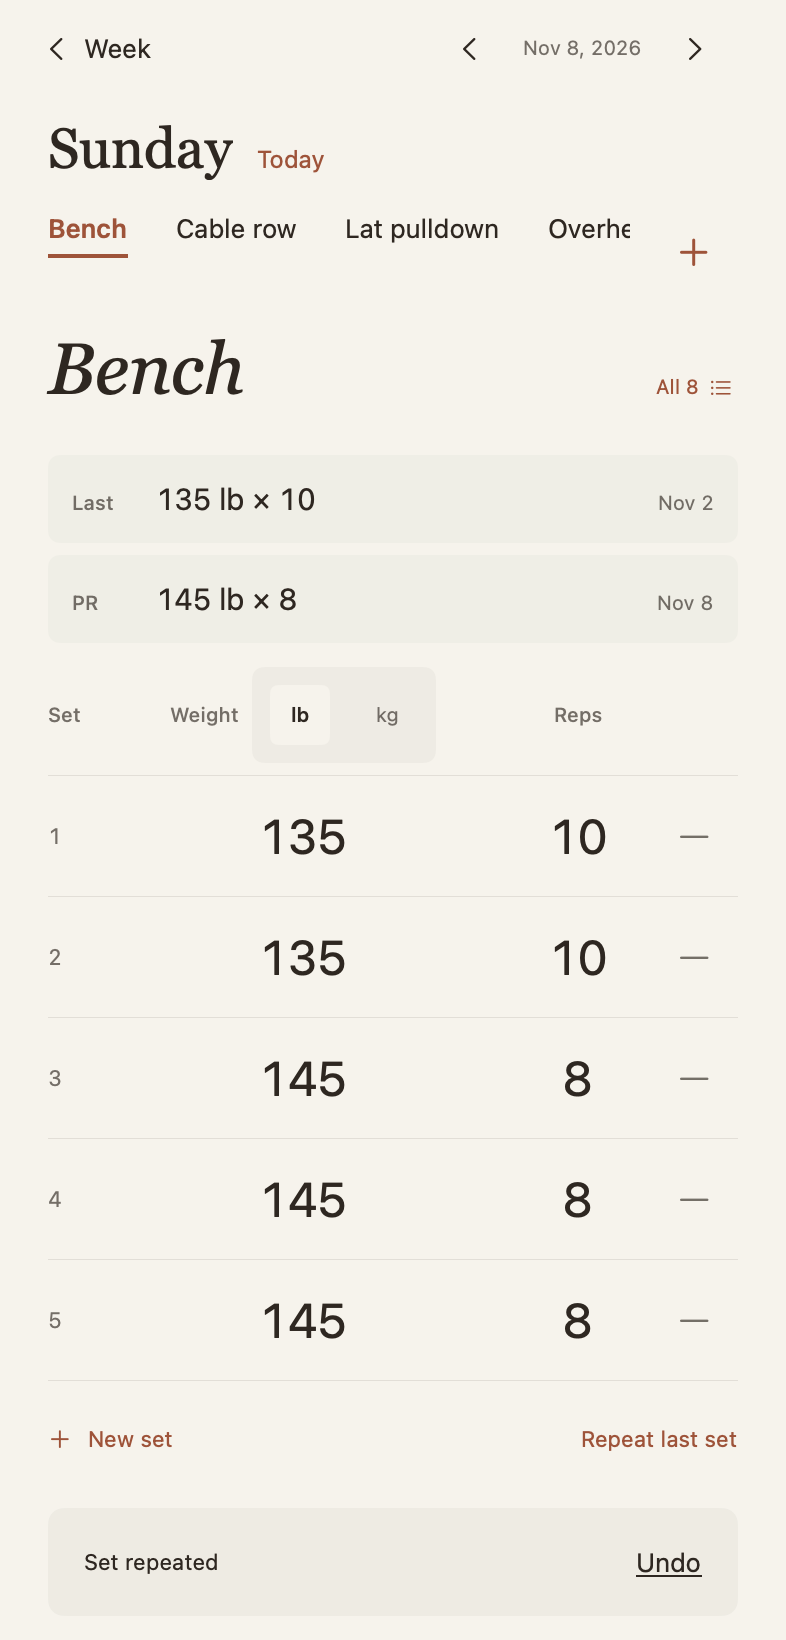
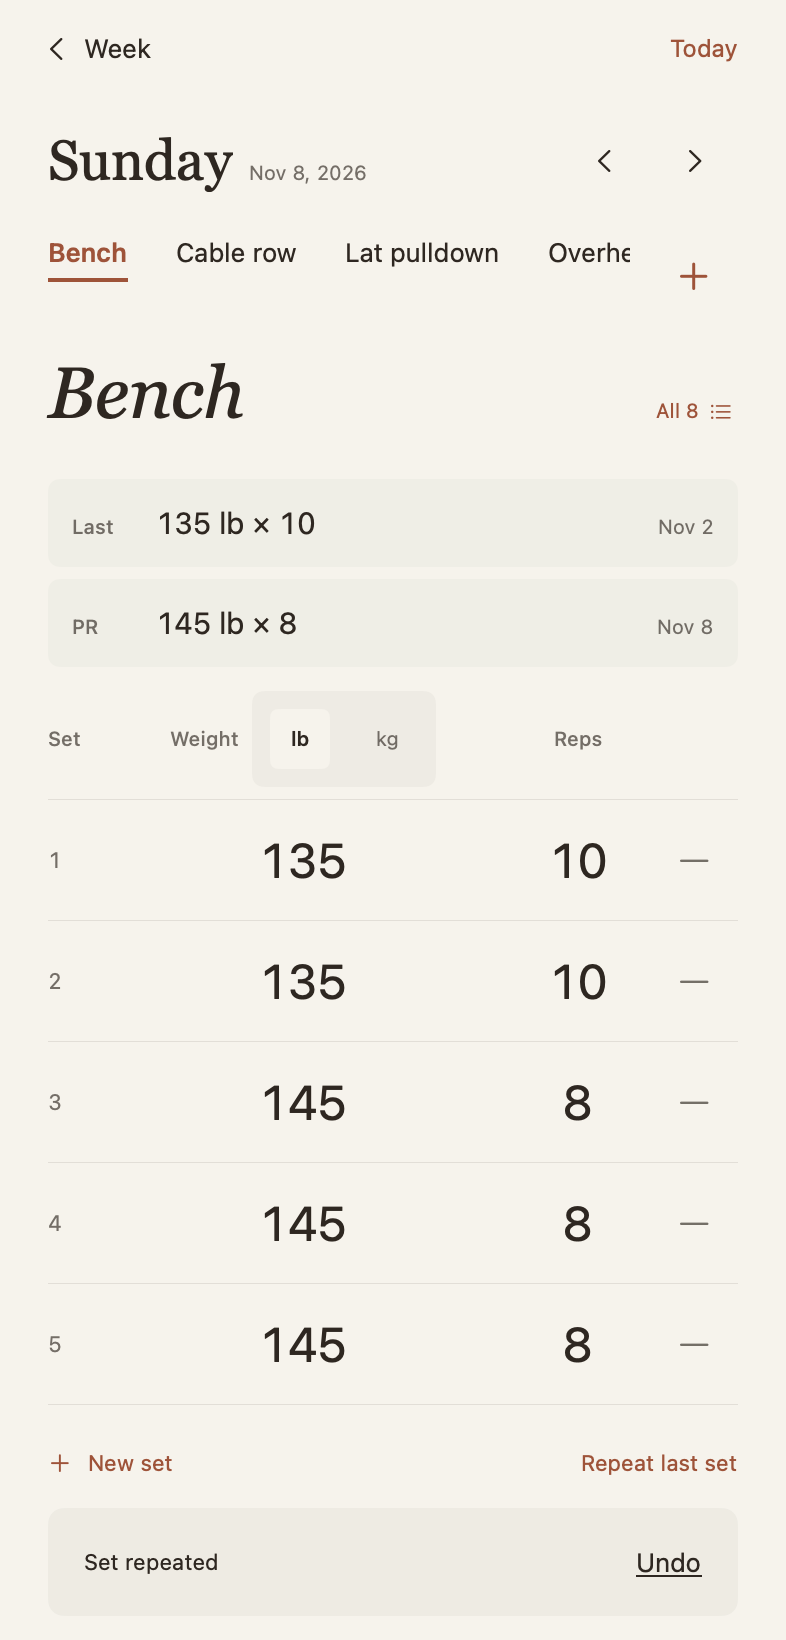
Group weekday and date beside day navigation arrows

diff --git a/Sources/SendaNotebook/TrainingDayView.swift b/Sources/SendaNotebook/TrainingDayView.swift
@@ -21,26 +21,12 @@ struct TrainingDayView: View {
         ScrollViewReader { scroll in
             ScrollView {
                 VStack(alignment: .leading, spacing: 12) {
-                    ViewThatFits(in: .horizontal) {
-                        HStack(spacing: 8) {
-                            weekButton.fixedSize()
-                            Spacer(minLength: 4)
-                            dateNavigation.fixedSize()
-                        }
-                        VStack(alignment: .leading, spacing: 0) {
-                            weekButton
-                            dateNavigation
-                        }
-                    }.id("day-header")
-                    HStack(alignment: .firstTextBaseline, spacing: 12) {
-                        Text(TrainingText.date(day, format: "EEEE"))
-                            .font(NotebookTypography.heading(28, relativeTo: .title2))
-                            .fixedSize(horizontal: false, vertical: true)
-                            .accessibilityLabel(TrainingText.date(day, format: "EEEE, MMM d"))
-                            .accessibilityIdentifier("day-title")
+                    HStack {
+                        weekButton
+                        Spacer(minLength: 12)
                         if day == model.today { Text("Today").font(.callout).foregroundStyle(NotebookStyle.clay).fixedSize() }
-                        Spacer(minLength: 0)
-                    }.padding(.bottom, 2)
+                    }
+                    dateNavigation.padding(.bottom, 2).id("day-header")
                     HStack(spacing: 10) {
                         ScrollView(.horizontal) {
                             LazyHStack(spacing: 24) {
@@ -139,22 +125,49 @@ struct TrainingDayView: View {
     }
 
     private var dateNavigation: some View {
-        HStack(spacing: 4) {
-            Button { model.changeDay(-1) } label: {
-                Image(systemName: "chevron.left").frame(width: 44, height: 44)
+        HStack(spacing: 8) {
+            ViewThatFits(in: .horizontal) {
+                HStack(alignment: .firstTextBaseline, spacing: 8) {
+                    weekdayTitle.fixedSize()
+                    dateTitle().fixedSize()
+                }
+                HStack(alignment: .firstTextBaseline, spacing: 8) {
+                    weekdayTitle.fixedSize()
+                    dateTitle("MMM d").fixedSize()
+                }
+                VStack(alignment: .leading, spacing: 2) {
+                    weekdayTitle
+                    dateTitle()
+                }
+            }.frame(maxWidth: .infinity, alignment: .leading)
+            HStack(spacing: 0) {
+                Button { model.changeDay(-1) } label: {
+                    Image(systemName: "chevron.left").frame(width: 44, height: 44)
+                }
+                .disabled((try? day.adding(days: -1)) == nil)
+                .accessibilityLabel("Previous day").accessibilityIdentifier("previous-day")
+                Button { model.changeDay(1) } label: {
+                    Image(systemName: "chevron.right").frame(width: 44, height: 44)
+                }
+                .disabled((try? day.adding(days: 1)) == nil)
+                .accessibilityLabel("Next day").accessibilityIdentifier("next-day")
             }
-            .disabled((try? day.adding(days: -1)) == nil)
-            .accessibilityLabel("Previous day").accessibilityIdentifier("previous-day")
-            Text(TrainingText.date(day, format: "MMM d, yyyy"))
-                .font(.caption).foregroundStyle(NotebookStyle.quiet)
-                .multilineTextAlignment(.center).frame(maxWidth: .infinity)
-                .accessibilityIdentifier("day-date")
-            Button { model.changeDay(1) } label: {
-                Image(systemName: "chevron.right").frame(width: 44, height: 44)
-            }
-            .disabled((try? day.adding(days: 1)) == nil)
-            .accessibilityLabel("Next day").accessibilityIdentifier("next-day")
         }
+    }
+
+    private var weekdayTitle: some View {
+        Text(TrainingText.date(day, format: "EEEE"))
+            .font(NotebookTypography.heading(28, relativeTo: .title2))
+            .fixedSize(horizontal: false, vertical: true)
+            .accessibilityLabel(TrainingText.date(day, format: "EEEE, MMM d"))
+            .accessibilityIdentifier("day-title")
+    }
+
+    private func dateTitle(_ format: String = "MMM d, yyyy") -> some View {
+        Text(TrainingText.date(day, format: format))
+            .font(.caption).foregroundStyle(NotebookStyle.quiet)
+            .accessibilityLabel(TrainingText.date(day, format: "MMM d, yyyy"))
+            .accessibilityIdentifier("day-date")
     }
 }
 
